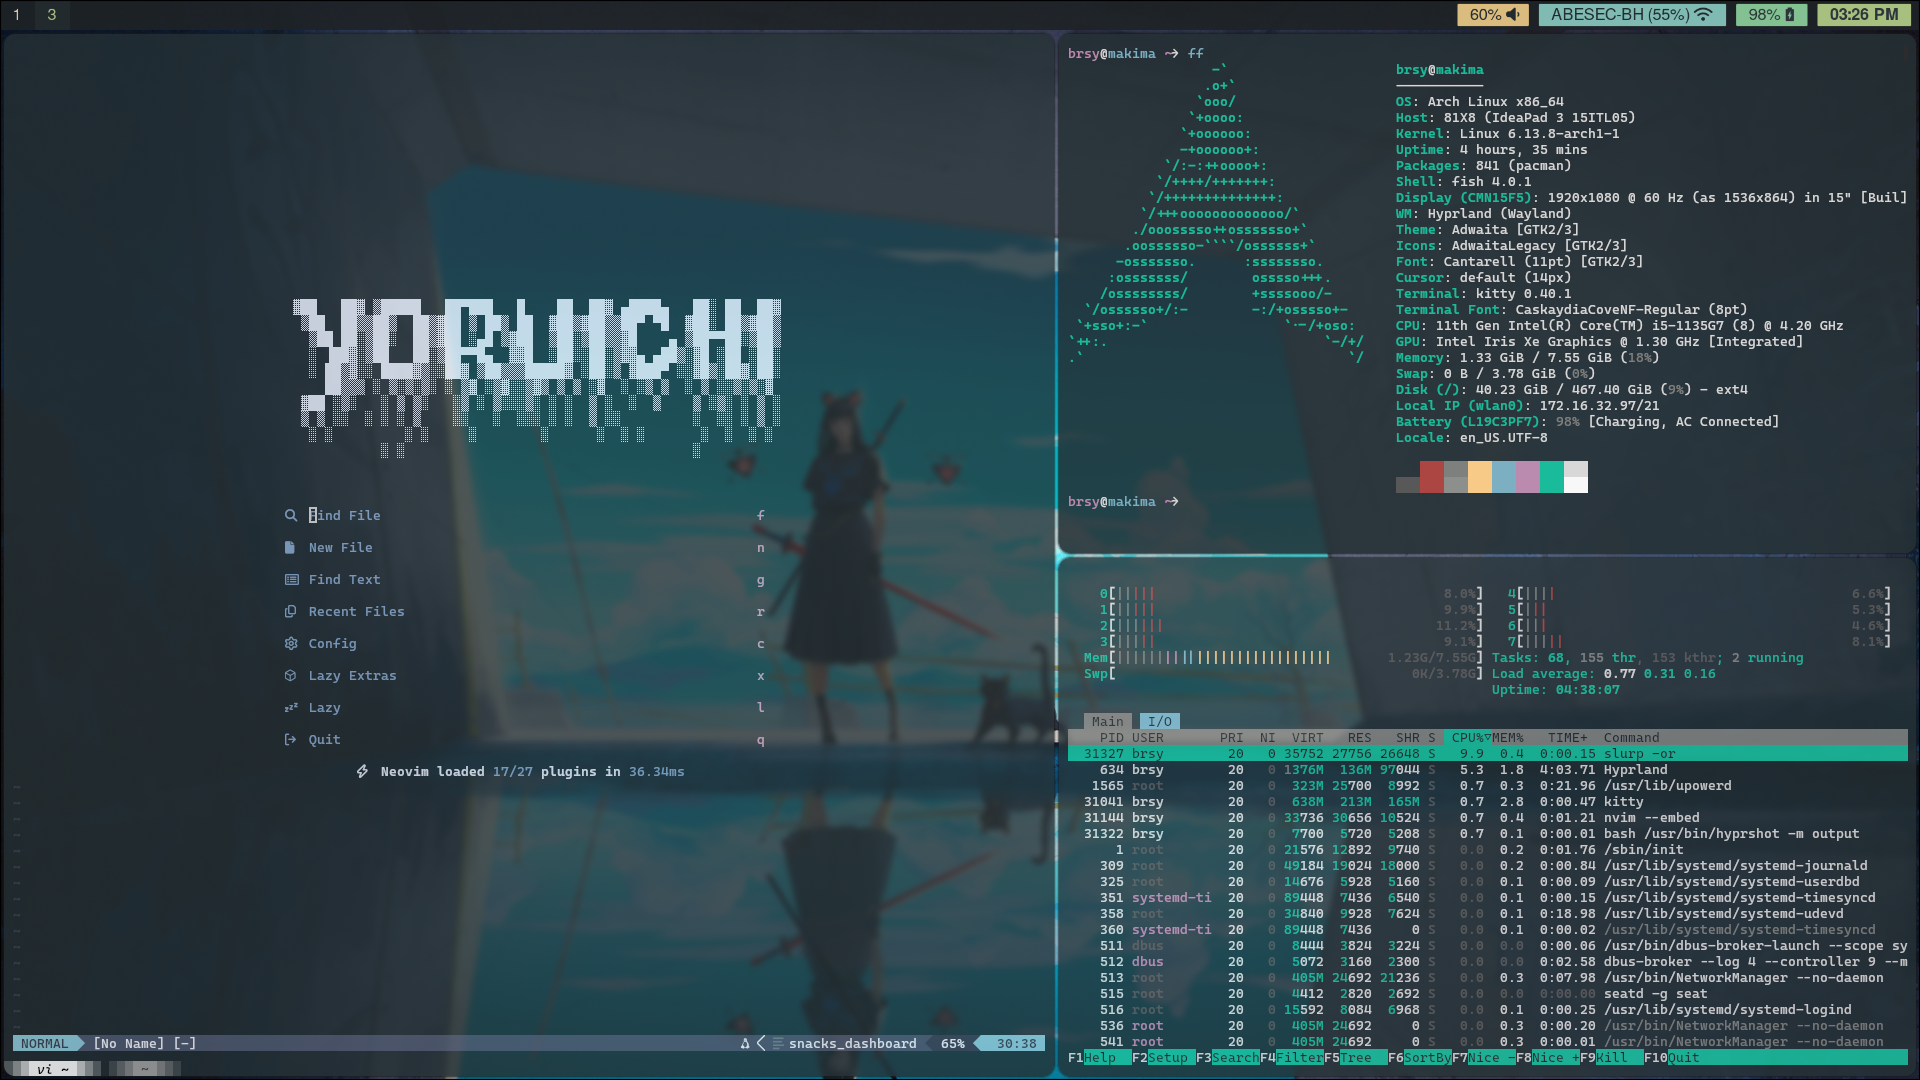
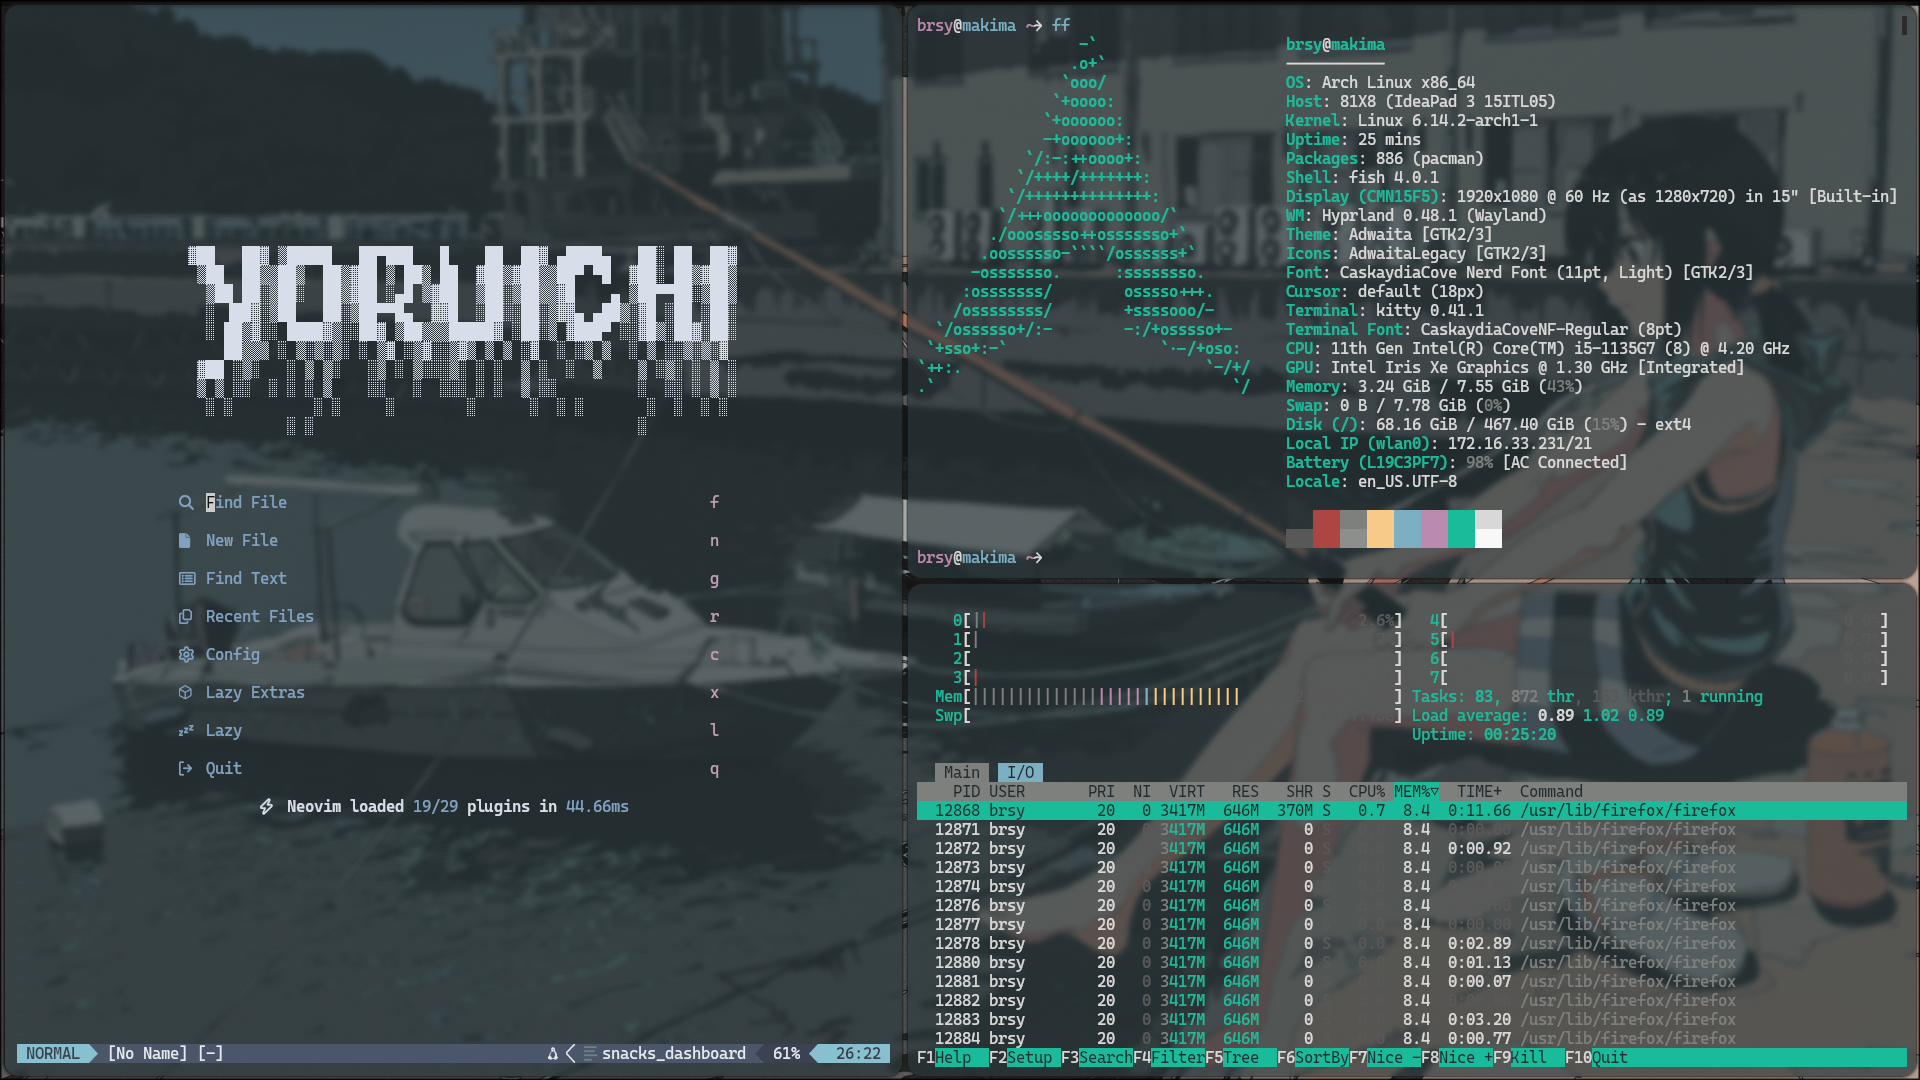
add: todo, lsp, filetree. Some wallpapers

diff --git a/README.md b/README.md
@@ -21,3 +21,7 @@ git clone --branch wallcodes --single-branch https://github.com/briheet/dotfiles
 ## GRUB
 
 ![GRUB](assets/grub.png)
+
+## Desktop Wallpaper
+
+![Desktop Wallpaper](assets/wallhaven-x6wx9z.png)
